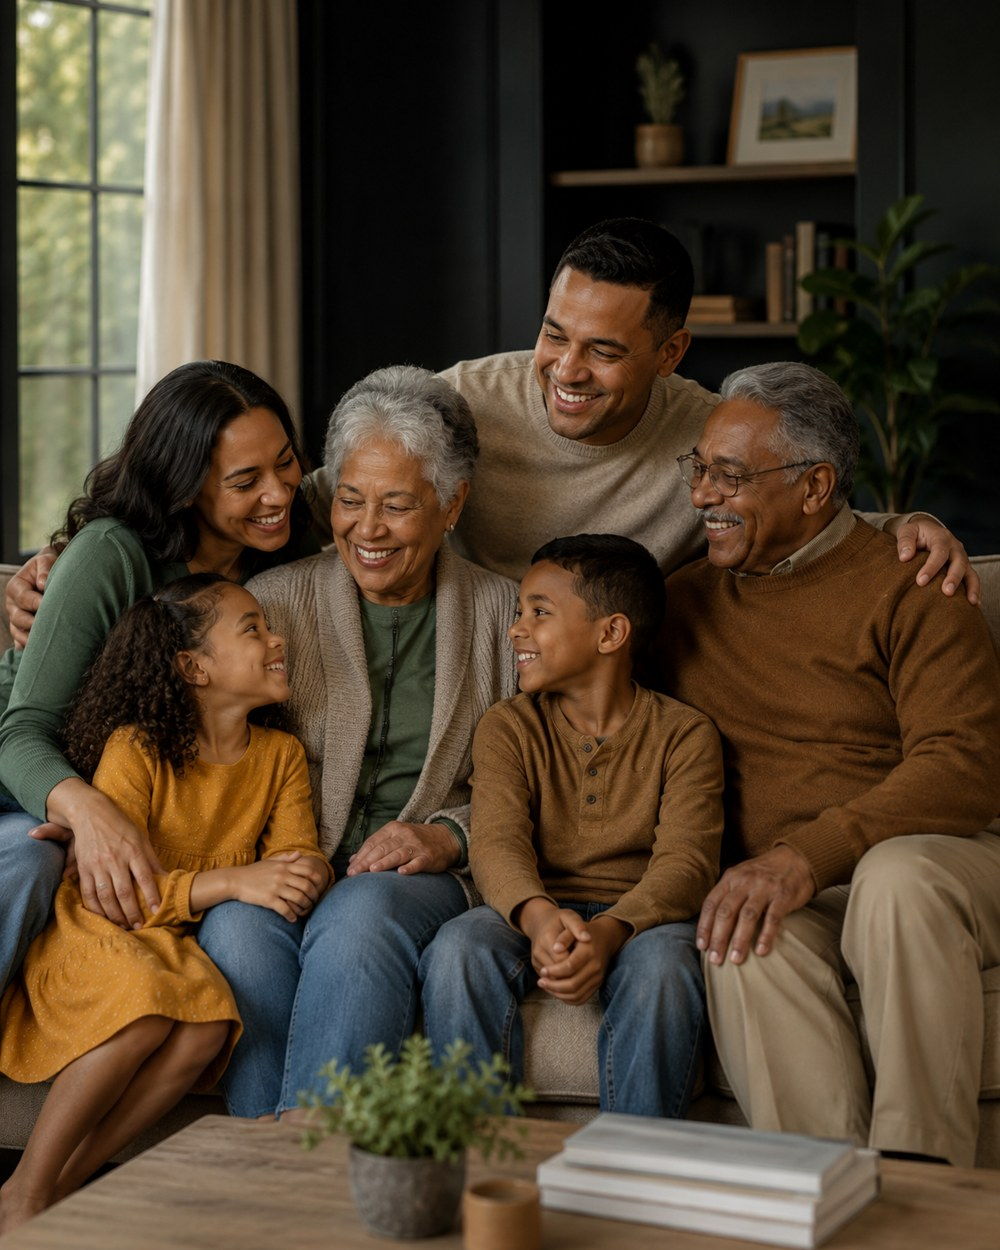
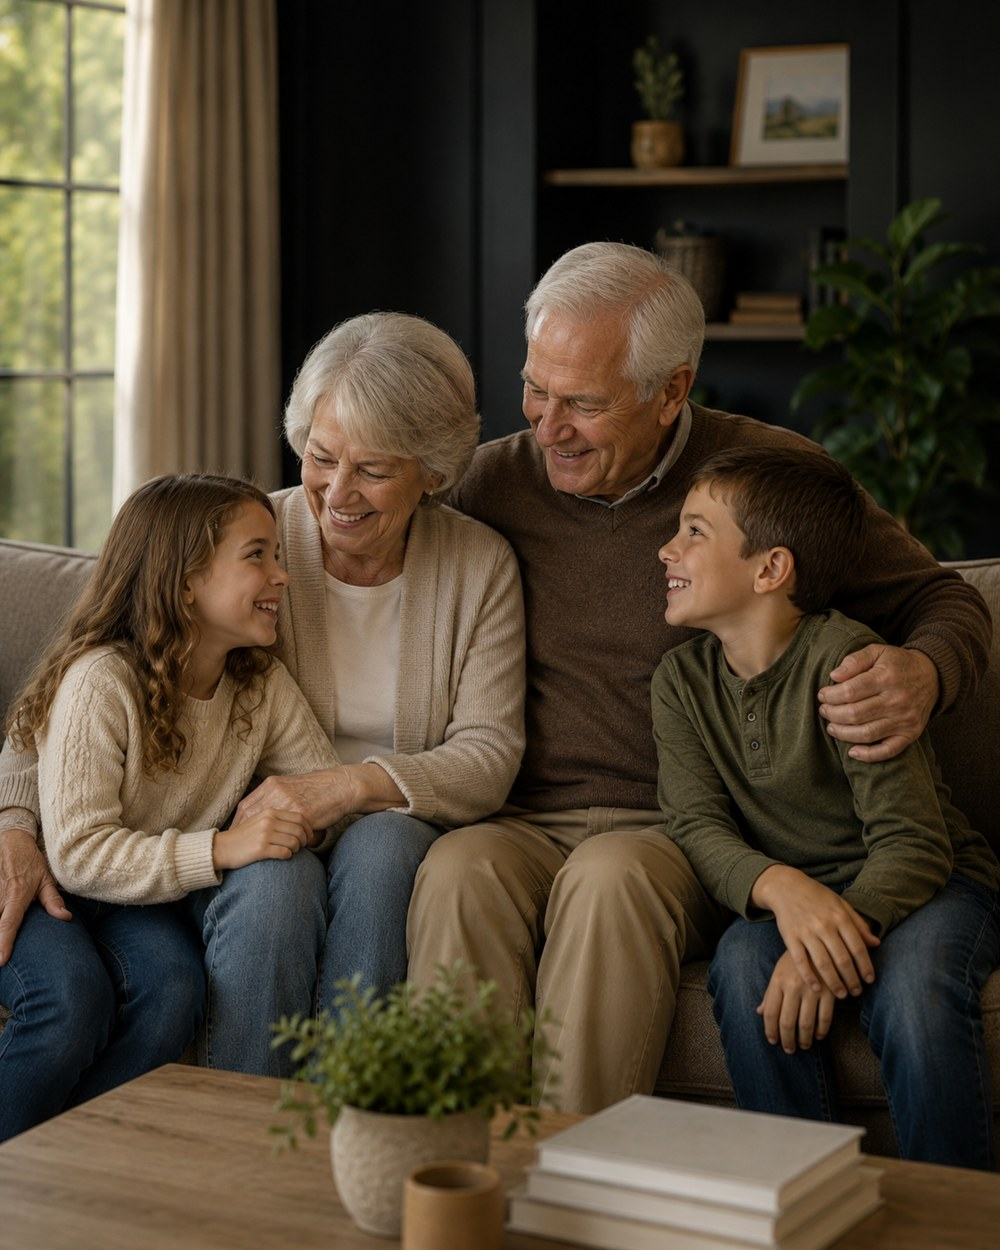
Add files via upload

diff --git a/assets/css/style.css b/assets/css/style.css
@@ -48,3 +48,12 @@
   .logo img{content:url('../images/centennial-logo-mobile.png');width:255px;max-width:78vw;height:auto;margin:0}
   .mobile-toggle{margin-top:2px}
 }
+
+
+/* v17: larger mobile logo + tighter header spacing */
+@media (max-width: 520px) {
+  .navbar{gap:0;padding:2px 0 5px}
+  .logo{margin:0;line-height:0}
+  .logo img{content:url('../images/centennial-logo-mobile.png');width:310px;max-width:90vw;height:auto;margin:0}
+  .mobile-toggle{margin-top:-18px;margin-bottom:2px;padding:9px 13px}
+}
